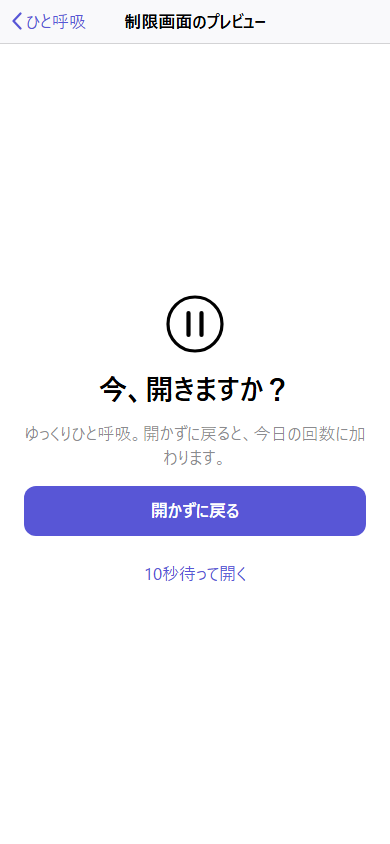
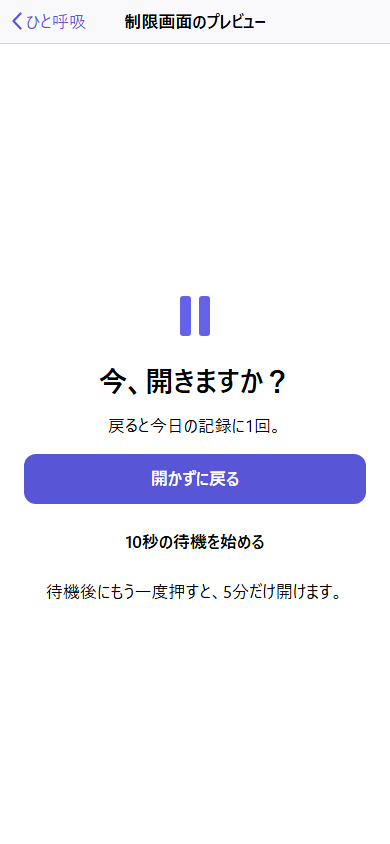
Improve shield readability across appearances (Codex)
0e8abc92c4624c5d51fcd4df716fd88a15fb6f9c

Changed region(s): [[0.0615, 0.3389, 0.9538, 0.7085], [0.1231, 0.6777, 0.3385, 0.7085]]

diff --git a/App/ShieldDemoView.swift b/App/ShieldDemoView.swift
@@ -13,18 +13,22 @@ struct ShieldDemoView: View {
             ScrollView {
                 VStack(spacing: 16) {
                     if let icon = ShieldAppearance.icon {
-                        Image(uiImage: icon).accessibilityHidden(true)
+                        Image(uiImage: icon)
+                            .renderingMode(.original)
+                            .accessibilityHidden(true)
                     }
                     Text(ShieldAppearance.title)
                         .font(.title.bold())
                         .accessibilityAddTraits(.isHeader)
                         .accessibilityIdentifier("shield-title")
-                    Text(ShieldAppearance.stopPrompt(count: count)).foregroundStyle(.secondary)
+                    Text(ShieldAppearance.stopPrompt(count: count))
+                        .fixedSize(horizontal: false, vertical: true)
                     Button {
                         onStop()
                         dismiss()
                     } label: {
                         Text(ShieldAppearance.primary)
+                            .foregroundStyle(.white)
                             .frame(maxWidth: .infinity, minHeight: 44)
                             .fixedSize(horizontal: false, vertical: true)
                     }
@@ -34,44 +38,51 @@ struct ShieldDemoView: View {
                     .accessibilityLabel(ShieldAppearance.primary)
                     .accessibilityIdentifier("shield-stop")
 
-                    Button {
-                        let now = Date.now
-                        switch PauseWindow.pendingAction(
-                            requestedAt: requestedAt, now: now, wait: Double(pause.seconds)
-                        ) {
-                        case .unlock:
-                            dismiss()
-                        case .restart:
-                            requestedAt = now
-                        case .waiting:
-                            break
-                        }
-                    } label: {
-                        Text(ShieldAppearance.secondary(seconds: pause.seconds))
-                            .frame(minHeight: 44)
-                            .fixedSize(horizontal: false, vertical: true)
-                    }
-                    .buttonStyle(.borderless)
-                    .accessibilityLabel(ShieldAppearance.secondary(seconds: pause.seconds))
-                    .accessibilityIdentifier("shield-open")
-                    if let requestedAt {
-                        // The app can run a timer here; the Shield extension shows a static label.
-                        TimelineView(.periodic(from: requestedAt, by: 1)) { context in
-                            switch PauseWindow.pendingAction(
-                                requestedAt: requestedAt, now: context.date, wait: Double(pause.seconds)
-                            ) {
+                    // The app can run a timer here; the Shield extension shows a static label.
+                    TimelineView(.periodic(from: requestedAt ?? .now, by: 1)) { context in
+                        let phase = PauseWindow.pendingAction(
+                            requestedAt: requestedAt, now: context.date, wait: Double(pause.seconds)
+                        )
+                        VStack(spacing: 4) {
+                            Button {
+                                let now = Date.now
+                                switch PauseWindow.pendingAction(
+                                    requestedAt: requestedAt, now: now, wait: Double(pause.seconds)
+                                ) {
+                                case .unlock:
+                                    dismiss()
+                                case .restart:
+                                    if pause.seconds == 0 {
+                                        dismiss()
+                                    } else {
+                                        requestedAt = now
+                                    }
+                                case .waiting:
+                                    break
+                                }
+                            } label: {
+                                Text(openLabel(for: phase))
+                                    .fontWeight(.semibold)
+                                    .foregroundStyle(Color.primary)
+                                    .frame(minHeight: 44)
+                                    .fixedSize(horizontal: false, vertical: true)
+                            }
+                            .buttonStyle(.borderless)
+                            .disabled(isWaiting(phase))
+                            .accessibilityIdentifier("shield-open")
+
+                            switch phase {
                             case .waiting(let remaining):
                                 Text(ShieldAppearance.waitStatus(remainingSeconds: remaining))
-                                    .foregroundStyle(.secondary)
                                     .monospacedDigit()
-                            case .unlock:
-                                Text(ShieldAppearance.waitStatus(remainingSeconds: 0))
-                                    .foregroundStyle(.secondary)
-                                    .monospacedDigit()
-                            case .restart:
+                                    .accessibilityIdentifier("shield-wait-status")
+                            case .restart where pause.seconds > 0:
+                                Text(ShieldAppearance.unlockInstructions)
+                            default:
                                 EmptyView()
                             }
                         }
+                        .fixedSize(horizontal: false, vertical: true)
                     }
                 }
                 .multilineTextAlignment(.center)
@@ -81,5 +92,18 @@ struct ShieldDemoView: View {
         }
         .navigationTitle("制限画面のプレビュー")
         .navigationBarTitleDisplayMode(.inline)
+    }
+
+    private func openLabel(for phase: PendingAction) -> String {
+        switch phase {
+        case .restart: return ShieldAppearance.secondary(seconds: pause.seconds)
+        case .waiting: return ShieldAppearance.waiting
+        case .unlock: return ShieldAppearance.unlock
+        }
+    }
+
+    private func isWaiting(_ phase: PendingAction) -> Bool {
+        if case .waiting = phase { return true }
+        return false
     }
 }

diff --git a/Shield/Shield.swift b/Shield/Shield.swift
@@ -1,3 +1,4 @@
+import Foundation
 import ManagedSettings
 import ManagedSettingsUI
 import UIKit
@@ -12,13 +13,17 @@ final class Shield: ShieldConfigurationDataSource {
     }
 
     private func configuration(for token: ApplicationToken?) -> ShieldConfiguration {
-        let state = try? ScreenTime.transaction { $0 }
+        var state = try? ScreenTime.transaction { $0 }
         let now = Date.now
-        let strict = state?.isStrict(at: now) == true
-        let pause = state?.pause(at: now) ?? .standard
-        // Shield extensions cannot run timers, so the escalating wait is a static label here;
-        // the live countdown is rendered by the app (SetupView.homeForm and ShieldDemoView).
-        let attempt = (state?.progress.unlockCount(at: now, calendar: .current) ?? 0) + 1
+        let calendar = Calendar.current
+        // Match the action's eligibility even when the relock callback has not refreshed storage.
+        state?.reconcile(at: now, calendar: calendar)
+        let strict = state?.isStrict(at: now, calendar: calendar) == true
+        let pause = state?.pause(at: now, calendar: calendar) ?? .standard
+        let pending = state?.activePending(at: now, calendar: calendar)
+        let waitingForApp = pending != nil && pending?.app == token
+        let canOpen = token != nil && state?.isBlocking(at: now, calendar: calendar) == true && !strict && state?.permit == nil
+        let attempt = (state?.progress.unlockCount(at: now, calendar: calendar) ?? 0) + 1
         let showsAttempt = pause.isEscalating && !strict && state?.unlockFailed != true
         var subtitle: String
         if state == nil {
@@ -27,13 +32,17 @@ final class Shield: ShieldConfigurationDataSource {
             subtitle = "制限時間が終わるまで、このアプリは開けません。"
         } else if state?.unlockFailed == true {
             subtitle = "一時解除できませんでした。もう一度お試しください。"
-        } else if let pending = state?.activePending(at: now), pending.app == token {
-            subtitle = "ひと呼吸。時間が過ぎたら、もう一度押せます。"
+        } else if waitingForApp {
+            // iOS can keep this configuration on screen across the wait boundary.
+            subtitle = ShieldAppearance.unlockInstructions
         } else if state?.permit != nil {
             subtitle = "別のアプリを一時解除しています。"
         } else {
-            let count = state?.progress.count(at: now, calendar: .current) ?? 0
+            let count = state?.progress.count(at: now, calendar: calendar) ?? 0
             subtitle = pause.message.isEmpty ? ShieldAppearance.stopPrompt(count: count) : pause.message
+            if canOpen && pause.seconds > 0 {
+                subtitle += "\n" + ShieldAppearance.unlockInstructions
+            }
         }
         if showsAttempt, state?.permit == nil {
             subtitle = ShieldAppearance.attemptWaitLabel(attempt: attempt, seconds: pause.seconds) + "\n" + subtitle
@@ -42,12 +51,13 @@ final class Shield: ShieldConfigurationDataSource {
             backgroundColor: .systemBackground,
             icon: ShieldAppearance.icon,
             title: .init(text: ShieldAppearance.title, color: .label),
-            subtitle: .init(text: subtitle, color: .secondaryLabel),
+            subtitle: .init(text: subtitle, color: .label),
             primaryButtonLabel: .init(text: ShieldAppearance.primary, color: .white),
             primaryButtonBackgroundColor: ShieldAppearance.tint,
-            secondaryButtonLabel: strict ? nil : token.map {
-                _ in .init(text: ShieldAppearance.secondary(seconds: pause.seconds), color: .label)
-            }
+            secondaryButtonLabel: canOpen ? .init(
+                text: waitingForApp ? ShieldAppearance.unlock : ShieldAppearance.secondary(seconds: pause.seconds),
+                color: .label
+            ) : nil
         )
     }
 }

diff --git a/ScreenshotTests/ScreenshotTests.swift b/ScreenshotTests/ScreenshotTests.swift
@@ -13,6 +13,10 @@ final class ScreenshotTests: XCTestCase {
         exerciseFirstBlockDemo(appearance: "light", accessibilitySize: false)
     }
 
+    @MainActor func testFirstBlockDemoInDark() {
+        exerciseFirstBlockDemo(appearance: "dark", accessibilitySize: false)
+    }
+
     @MainActor func testFirstBlockDemoAtAX5Light() {
         exerciseFirstBlockDemo(appearance: "light", accessibilitySize: true)
     }
@@ -88,12 +92,33 @@ final class ScreenshotTests: XCTestCase {
         XCTAssertEqual(stop.label, "開かずに戻る")
         let open = app.buttons["shield-open"]
         reveal(open, in: app)
-        XCTAssertEqual(open.label, "10秒待って開く")
+        XCTAssertEqual(open.label, "10秒の待機を始める")
         open.tap()
-        XCTAssertTrue(open.exists)
+        let waiting = app.staticTexts["shield-wait-status"]
+        XCTAssertTrue(waiting.waitForExistence(timeout: 4))
+        XCTAssertTrue(waiting.label.contains("あと"))
+        XCTAssertEqual(open.label, "待機中")
+        XCTAssertFalse(open.isEnabled)
+        let ready = XCTNSPredicateExpectation(
+            predicate: NSPredicate(format: "label == %@", "5分だけ開く"), object: open
+        )
+        XCTAssertEqual(XCTWaiter.wait(for: [ready], timeout: 15), .completed)
+        reveal(open, in: app)
+        XCTAssertTrue(open.isEnabled)
+        open.tap()
+        let count = element("home-count", in: app)
+        reveal(count, in: app, scrollingUp: true)
+        XCTAssertEqual(count.label, "今日、開かずに戻れた回数、0回")
+
+        let shield = element("home-shield", in: app)
+        reveal(shield, in: app)
+        shield.tap()
+        reveal(open, in: app)
+        XCTAssertEqual(open.label, "10秒の待機を始める")
+        open.tap()
+        XCTAssertTrue(waiting.waitForExistence(timeout: 4))
         reveal(stop, in: app, scrollingUp: true)
         stop.tap()
-        let count = element("home-count", in: app)
         reveal(count, in: app, scrollingUp: true)
         XCTAssertEqual(count.label, "今日、開かずに戻れた回数、1回")
     }
@@ -122,6 +147,16 @@ final class ScreenshotTests: XCTestCase {
         let shield = element("home-shield", in: app)
         reveal(shield, in: app)
         shield.tap()
+        let stop = app.buttons["shield-stop"]
+        let open = app.buttons["shield-open"]
+        XCTAssertTrue(stop.waitForExistence(timeout: 8))
+        XCTAssertTrue(stop.isHittable)
+        XCTAssertTrue(open.isHittable)
+        XCTAssertTrue(app.frame.contains(stop.frame))
+        XCTAssertTrue(app.frame.contains(open.frame))
+        XCTAssertLessThanOrEqual(stop.frame.maxY, open.frame.minY)
+        XCTAssertEqual(stop.label, "開かずに戻る")
+        XCTAssertEqual(open.label, "10秒の待機を始める")
         capture("05-shield-preview", appearance, visible: app.staticTexts["shield-title"])
         app.navigationBars.buttons.firstMatch.tap()
 

diff --git a/tools/preview/shield.html b/tools/preview/shield.html
@@ -13,6 +13,8 @@
       --secondary: rgba(60, 60, 67, 0.6);
       --separator: rgba(60, 60, 67, 0.2);
       --indigo: #5856d6;
+      --shield-tint: #5856d6;
+      --shield-mark: #6562e8;
     }
     * { box-sizing: border-box; }
     html, body {
@@ -67,7 +69,7 @@
     .pause-icon {
       width: 64px;
       height: 64px;
-      color: var(--label);
+      color: var(--shield-mark);
     }
     .shield-title {
       margin: 0;
@@ -77,7 +79,7 @@
     }
     .shield-subtitle {
       margin: 0;
-      color: var(--secondary);
+      color: var(--label);
       font-size: 17px;
     }
     .primary-btn {
@@ -88,7 +90,7 @@
       min-height: 50px;
       padding: 12px 16px;
       border-radius: 12px;
-      background: var(--indigo);
+      background: var(--shield-tint);
       color: #ffffff;
       font-size: 17px;
       font-weight: 600;
@@ -99,8 +101,9 @@
       justify-content: center;
       min-height: 44px;
       padding: 8px 16px;
-      color: var(--indigo);
+      color: var(--label);
       font-size: 17px;
+      font-weight: 600;
     }
   </style>
 </head>
@@ -118,14 +121,14 @@
 
   <main>
     <svg class="pause-icon" viewBox="0 0 64 64" aria-hidden="true">
-      <circle cx="32" cy="32" r="27" fill="none" stroke="currentColor" stroke-width="3.2"></circle>
-      <line x1="25.5" y1="21" x2="25.5" y2="43" stroke="currentColor" stroke-width="4.2" stroke-linecap="round"></line>
-      <line x1="38.5" y1="21" x2="38.5" y2="43" stroke="currentColor" stroke-width="4.2" stroke-linecap="round"></line>
+      <rect x="17" y="12" width="11" height="40" rx="3" fill="currentColor"></rect>
+      <rect x="36" y="12" width="11" height="40" rx="3" fill="currentColor"></rect>
     </svg>
     <h2 class="shield-title">今、開きますか？</h2>
-    <p class="shield-subtitle">ゆっくりひと呼吸。開かずに戻ると、今日の回数に加わります。</p>
+    <p class="shield-subtitle">戻ると今日の記録に1回。</p>
     <div class="primary-btn">開かずに戻る</div>
-    <div class="secondary-btn">10秒待って開く</div>
+    <div class="secondary-btn">10秒の待機を始める</div>
+    <p class="shield-subtitle">待機後にもう一度押すと、5分だけ開けます。</p>
   </main>
 </body>
 </html>

diff --git a/Shared/ShieldAppearance.swift b/Shared/ShieldAppearance.swift
@@ -2,13 +2,21 @@ import UIKit
 
 enum ShieldAppearance {
     static let title = "今、開きますか？"
-    static let subtitle = "ゆっくりひと呼吸。開かずに戻ると、今日の回数に加わります。"
+    static let subtitle = "戻ると今日の記録に1回。"
     // iOS uses these visible labels for the system-rendered buttons.
     static let primary = "開かずに戻る"
-    static let tint = UIColor.systemIndigo
-    static let icon = UIImage(systemName: "pause.circle", withConfiguration:
+    // Fixed (not dynamic) colours: the shield image and button are resolved once, so each
+    // purple from the adopted app icon must read on both the white and black backgrounds.
+    static let tint = UIColor(red: 88.0 / 255, green: 86.0 / 255, blue: 214.0 / 255, alpha: 1)
+    static let icon = UIImage(systemName: "pause.fill", withConfiguration:
         UIImage.SymbolConfiguration(pointSize: 56, weight: .regular))?
-        .withTintColor(.label, renderingMode: .alwaysOriginal)
+        .withTintColor(UIColor(red: 101.0 / 255, green: 98.0 / 255, blue: 232.0 / 255, alpha: 1),
+                       renderingMode: .alwaysOriginal)
+
+    private static let accessMinutes = Int(PauseWindow.access) / 60
+    static let unlock = "\(accessMinutes)分だけ開く"
+    static let waiting = "待機中"
+    static let unlockInstructions = "待機後にもう一度押すと、\(accessMinutes)分だけ開けます。"
 
     static func stopPrompt(count: Int) -> String {
         switch count {
@@ -19,7 +27,7 @@ enum ShieldAppearance {
     }
 
     static func secondary(seconds: Int) -> String {
-        seconds == 0 ? "そのまま開く" : "\(seconds)秒待って開く"
+        seconds == 0 ? unlock : "\(seconds)秒の待機を始める"
     }
 
     /// The escalating wait for today's Nth unlock, e.g. 「今日 3回目・40秒」.

diff --git a/STATUS.md b/STATUS.md
@@ -21,3 +21,5 @@
 - Xcode ビルド修正 第2回。利用時間レポートのアプリ集計を型ごとに分割し、既存の表示内容を維持。対象の Node 検査は17件通過。ランナーの全件検査と公開後の Xcode ビルド・撮影は未確認。
 - 第8回批評の優先度1（2026-11-28）：許可の用途を許可ボタンの上に移した。デモの対象選択に候補3件・選択状態・件数を出し、0件では開始できなくした。開始の手前に「今回：今から1時間」と「繰り返し：明日から毎日」を実際の時刻で分けて表示した。ホームの0回の案内は読みやすい本文の大きさにした。明暗の02と最大文字サイズの XCTest は反映後の撮影CI待ち。実機の確認手順は [実機確認](docs/qa-states.md#実機確認)。
 - 優先度1の検査を修正。最大文字サイズで選択画面の下部をスクロールできるよう、操作対象を受け取る XCTest ヘルパーに検査を合わせた。修正前は19件中1件失敗、修正後は対象37件すべて通過、失敗・中止ともに0件。全件検査はランナー待ち。反映後の撮影と実機確認は未実施。
+- 第8回批評の優先度2（2026-11-28）：制限画面とプレビューの印を、採用アイコンと同じ紫の縦2本（描画時に色を固定、白地・黒地とも3:1以上）にし、主ボタンはアプリの紫に白文字。説明を「戻ると今日の記録に1回。」に短縮。副操作は「10秒の待機を始める」→「待機中」（押せない）→「5分だけ開く」と変わる。HTMLプレビューと `docs/preview/shield-390.png` も同じ文言に更新。対象の Node 検査は41件すべて通過。明暗の05と最大文字サイズの XCTest は反映後の撮影CI待ち。OSの制限画面での再押下・5分後の再制限は実機確認待ち。
+- 優先度2の再レビュー対応では、OSの制限画面も操作側と同じ時刻判定を使い、期限切れの一時解除が保存されたままでも副ボタンを出す。待機を始めた後は「待機後にもう一度押すと、5分だけ開けます。」を表示する。対象のNode検査は43件すべて通過、失敗・中止0件（`tmp/shield-final.log`）。撮影CIは反映後の明暗05と最大文字サイズの操作を確認する。OSでの再押下・5分後の再制限は実機確認待ち。

diff --git a/docs/app-store/screenshots.ja.md b/docs/app-store/screenshots.ja.md
@@ -10,6 +10,6 @@
 | `06-report` | よく使うアプリと時間帯がわかる |
 | `08-paywall-value` | Proで、開かずに戻れた日を振り返る |
 
-1枚目は見出しと制限画面の「開かずに戻る」「10秒待って開く」を読める大きさで組み合わせます。10秒は標準設定の待ち時間です。
+1枚目は見出しと制限画面の「開かずに戻る」「10秒の待機を始める」を読める大きさで組み合わせます。10秒は標準設定の待ち時間です。
 
 掲載用の撮影では、2枚目にアプリを選ぶ操作、3枚目に「開かずに戻る」を試した直後の回数、4枚目にアプリ別・時間帯別の内訳、5枚目にProの月間カレンダーを写します。例として撮影した記録には「表示例」と添えます。撮影名は現行の識別名です。
